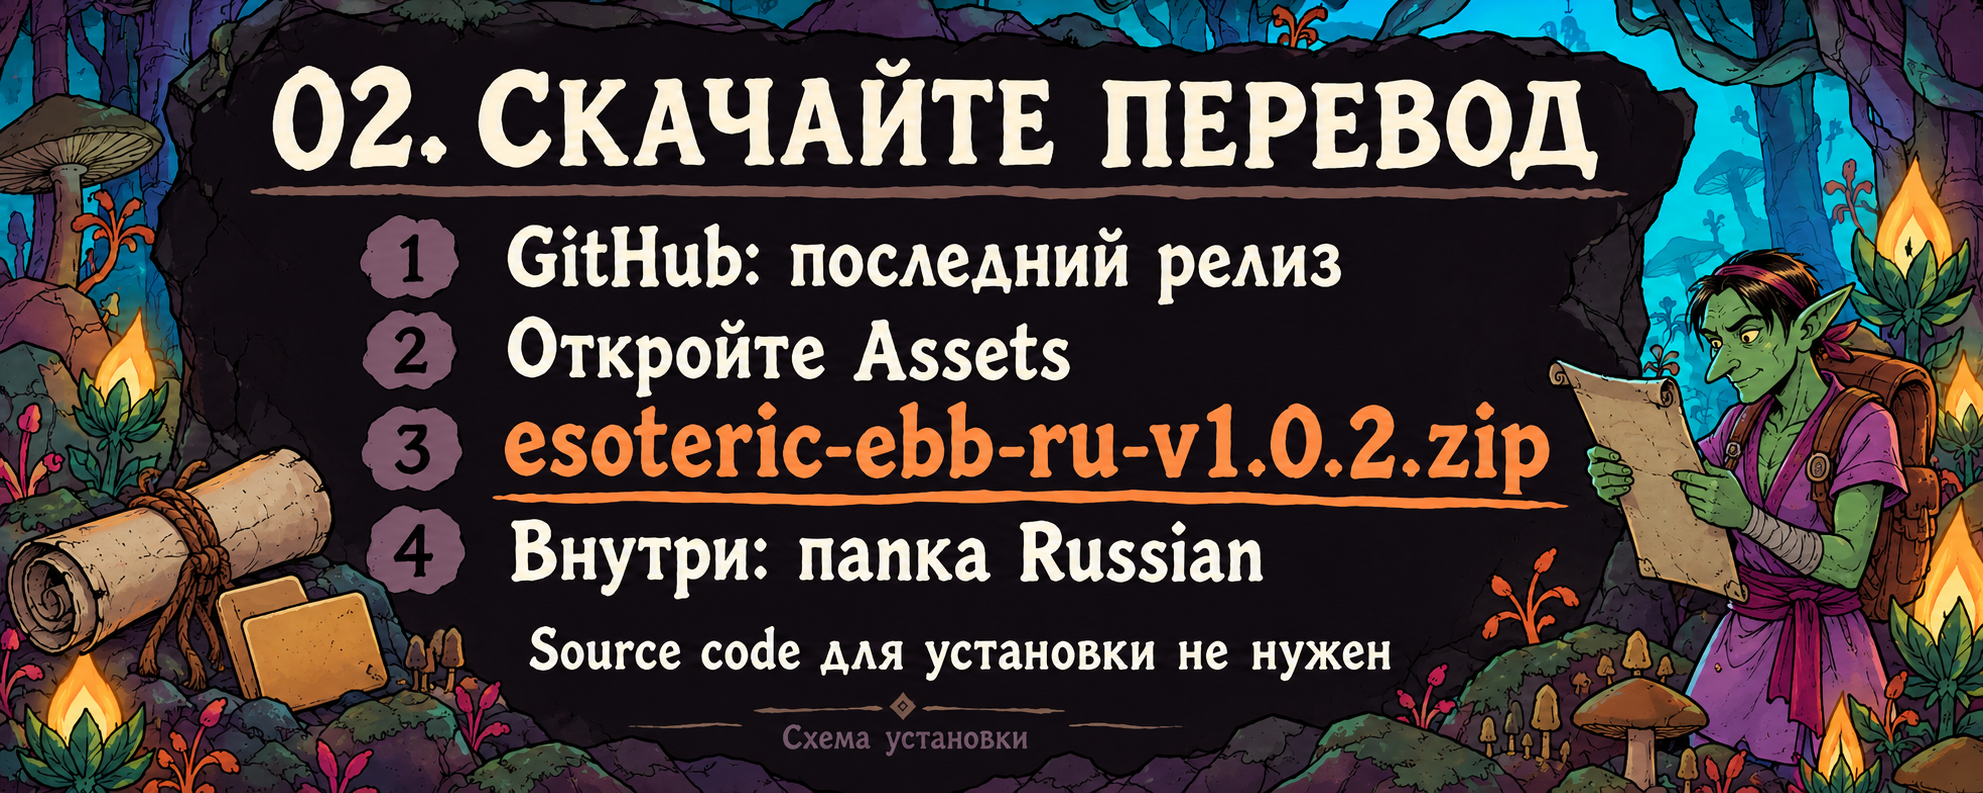
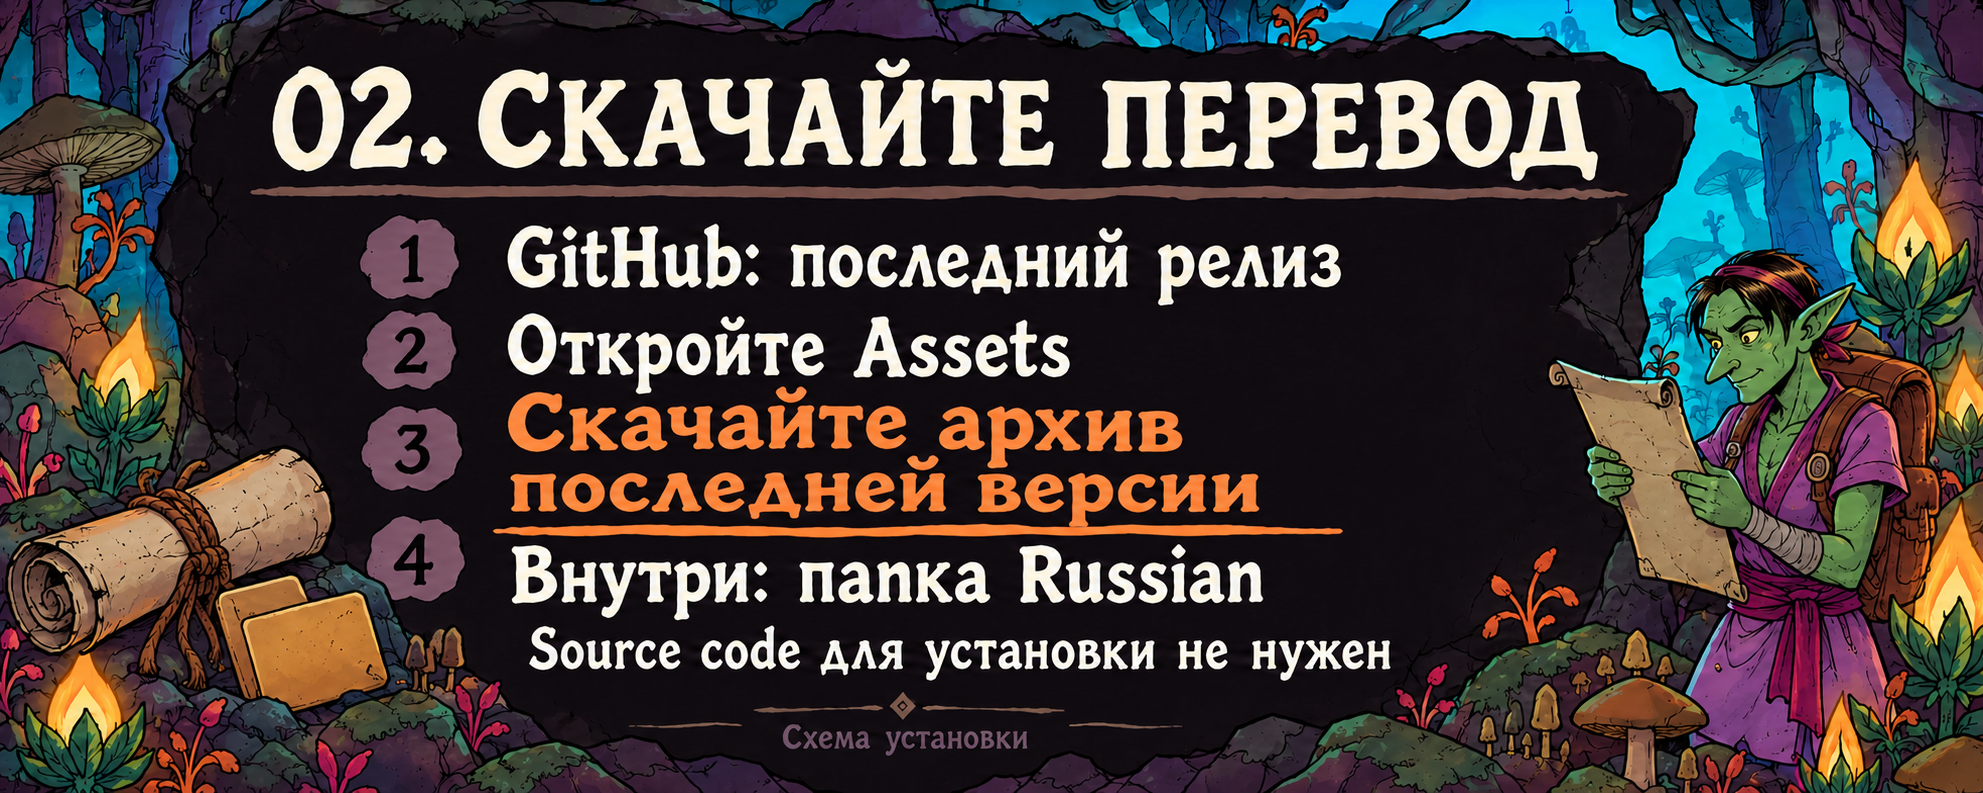
Simplify installation diagrams and refer to latest archive

diff --git a/docs/steam-guide/image-prompts.md b/docs/steam-guide/image-prompts.md
@@ -37,8 +37,8 @@ SpellTexts.csv
 UIElements.csv
 ```
 
-Таким образом, файл UIElements.csv на схеме служит примером одного из
-двенадцати файлов. Это не единственное содержимое Russian.
+В итоговой схеме дерево заканчивается выделенной папкой Russian. Файлы
+под ней не показаны, чтобы сосредоточить внимание на месте установки.
 
 ## Промпты комплекта
 
@@ -81,14 +81,15 @@ Localization Branch
 
 Горизонтальная инструкция в композиции первого шага. Небольшой зелёный
 гоблин в пурпурной одежде у правого края держит свиток; в левом нижнем углу
-свиток и рисунок папки. Имя ZIP крупное оранжевое, строго в одну строку.
+свиток и рисунок папки. Инструкция о скачивании последней версии выделена
+оранжевым. Номер версии и конкретное имя ZIP не указаны.
 Текст, переданный для размещения:
 
 ```text
 02. СКАЧАЙТЕ ПЕРЕВОД
 GitHub: последний релиз
 Откройте Assets
-esoteric-ebb-ru-v1.0.2.zip
+Скачайте архив последней версии
 Внутри: папка Russian
 Source code для установки не нужен
 Схема установки
@@ -101,7 +102,7 @@ Source code для установки не нужен
 Горизонтальная инструкция в композиции первого шага. Дерево папок занимает
 основную площадь, Russian выделена оранжевым. Соединители представляют собой
 линии с прямыми углами без наконечников стрелок. Official и Russian на одном
-уровне; UIElements.csv непосредственно внутри Russian. Жрец справа не закрывает
+уровне; под Russian нет файлов и дополнительных веток. Жрец справа не закрывает
 буквы. Текст и вложенность, переданные для размещения:
 
 ```text
@@ -112,12 +113,10 @@ Esoteric Ebb_Data
     Localization
       Official
       Russian
-        UIElements.csv
 Перенесите Russian из ZIP в Localization.
-Внутри Russian: 12 CSV-файлов
 Фрагмент содержимого папки
 ```
 
 Файл: assets/03-folders.png. Вложенность на готовом рисунке сверена с
-проверенным каталогом. При следующем релизе обновите имя архива во втором
-рисунке, если номер версии изменился.
+проверенным каталогом. Второй рисунок предлагает скачать последнюю версию
+без конкретного номера, поэтому при смене версии обновлять его не нужно.

diff --git a/docs/steam-guide/README.md b/docs/steam-guide/README.md
@@ -56,7 +56,7 @@
 - [Разметка Steam](https://steamcommunity.com/comment/Guide/formattinghelp): заголовки, выделение, ссылки и списки. На ней основан файл steam-bbcode.txt.
 - [Tips for Creating Steam Guides](https://steamcommunity.com/sharedfiles/filedetails/?id=837385938): рекомендации сообщества по обложке 195 × 195 и ширине иллюстраций 638 пикселей, а также загрузке изображений в редакторе. Это пользовательское руководство, а не спецификация Valve; обязательные ограничения проверяются по текущей форме загрузки.
 
-При следующем релизе обновите упоминание версии и имени архива в статье и
-заново сформируйте steam-bbcode.txt. Постоянная ссылка `/releases/latest`
-останется прежней. После публикации материала в Steam изменения в GitHub
+В статье и схеме скачивания используется последняя версия без конкретного
+номера архива. Постоянная ссылка `/releases/latest` остаётся прежней.
+После публикации материала в Steam изменения в GitHub
 не обновляют текст руководства автоматически.

diff --git a/docs/steam-guide/article.md b/docs/steam-guide/article.md
@@ -12,7 +12,7 @@
 
 ## 2. Скачайте перевод
 
-Откройте [последний релиз на GitHub](https://github.com/aa-blinov/esoteric-ebb-ru/releases/latest). В списке файлов **Assets** скачайте архив перевода с именем **esoteric-ebb-ru-v…zip**. У текущей версии 1.0.2 он называется **esoteric-ebb-ru-v1.0.2.zip**.
+Откройте [последний релиз на GitHub](https://github.com/aa-blinov/esoteric-ebb-ru/releases/latest). В списке файлов **Assets** скачайте ZIP-архив перевода последней версии.
 
 Архивы **Source code** для установки не нужны. В архиве перевода находится папка **Russian** с двенадцатью CSV-файлами.
 

diff --git a/CHANGELOG.md b/CHANGELOG.md
@@ -6,6 +6,8 @@ All notable changes to Esoteric Ebb RU. Versions are ordered newest first.
 
 ### Документация
 
+- В схемах Steam убраны файлы под Russian и номер версии ZIP; инструкция предлагает архив последней версии.
+
 - Схемы установки и обложка Steam перерисованы по референсу игры; путь и список файлов сверены с установленной сборкой, стрелка заменена деревом папок.
 
 - Переработаны иллюстрации руководства Steam: светлые схемы, дерево папок и компактная обложка вместо тёмных карточек.
